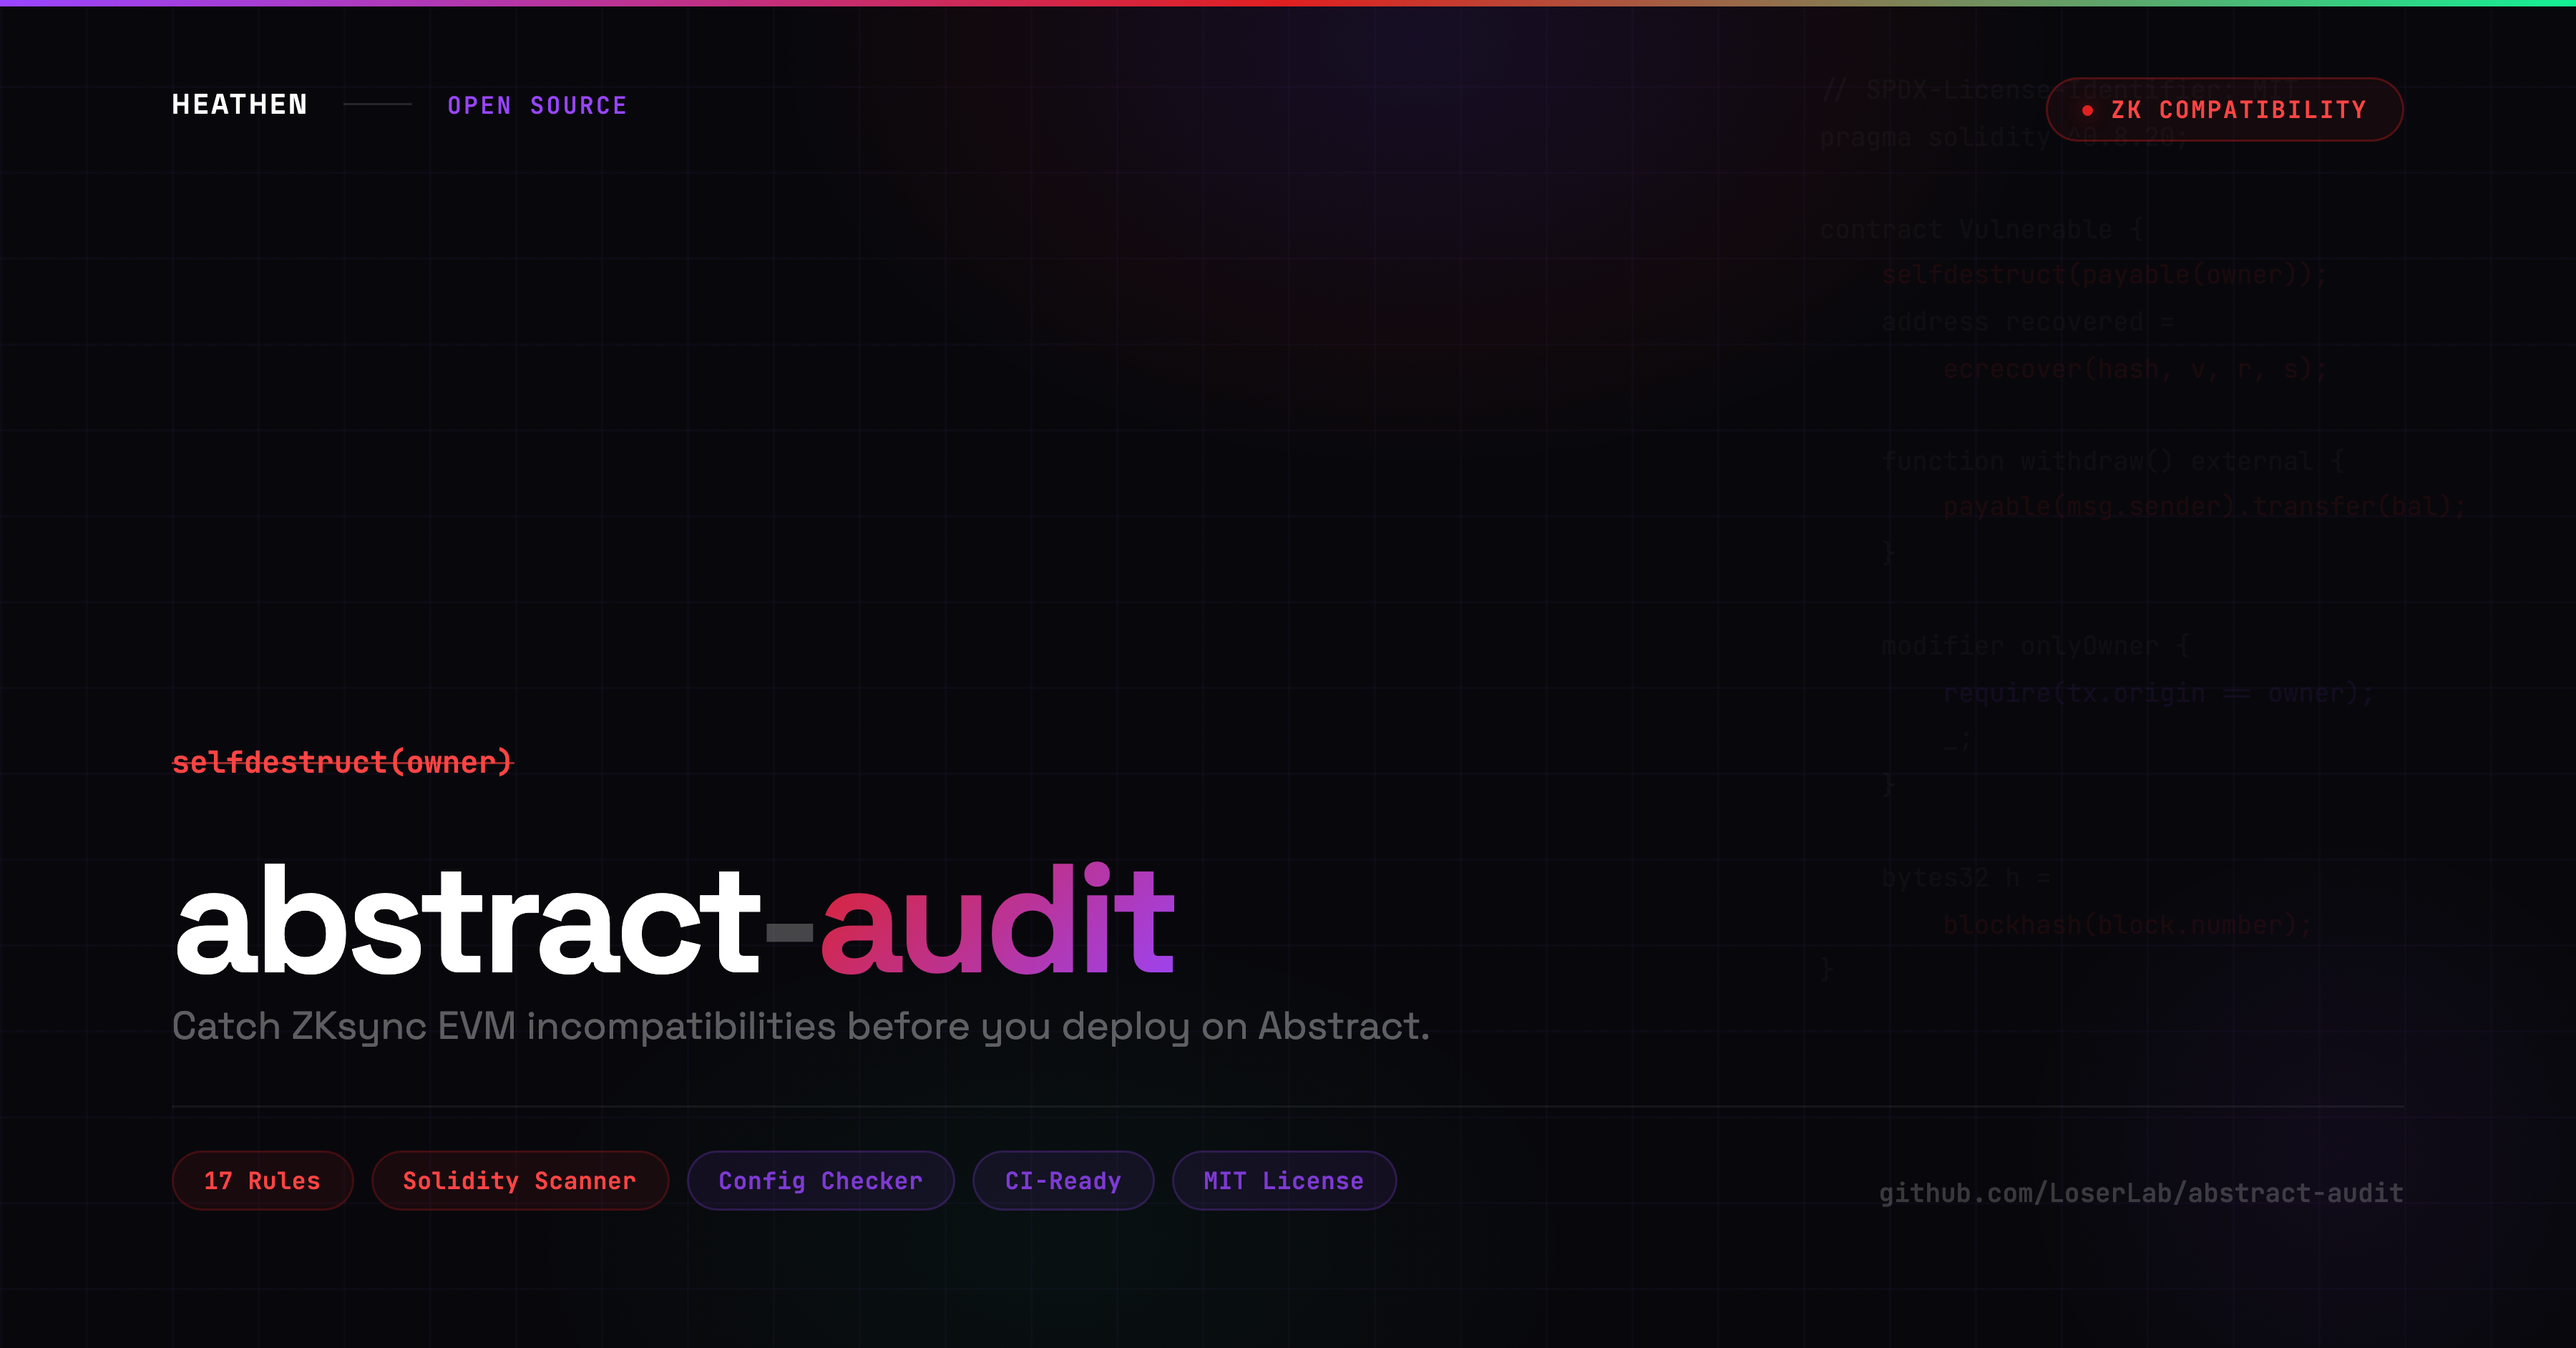
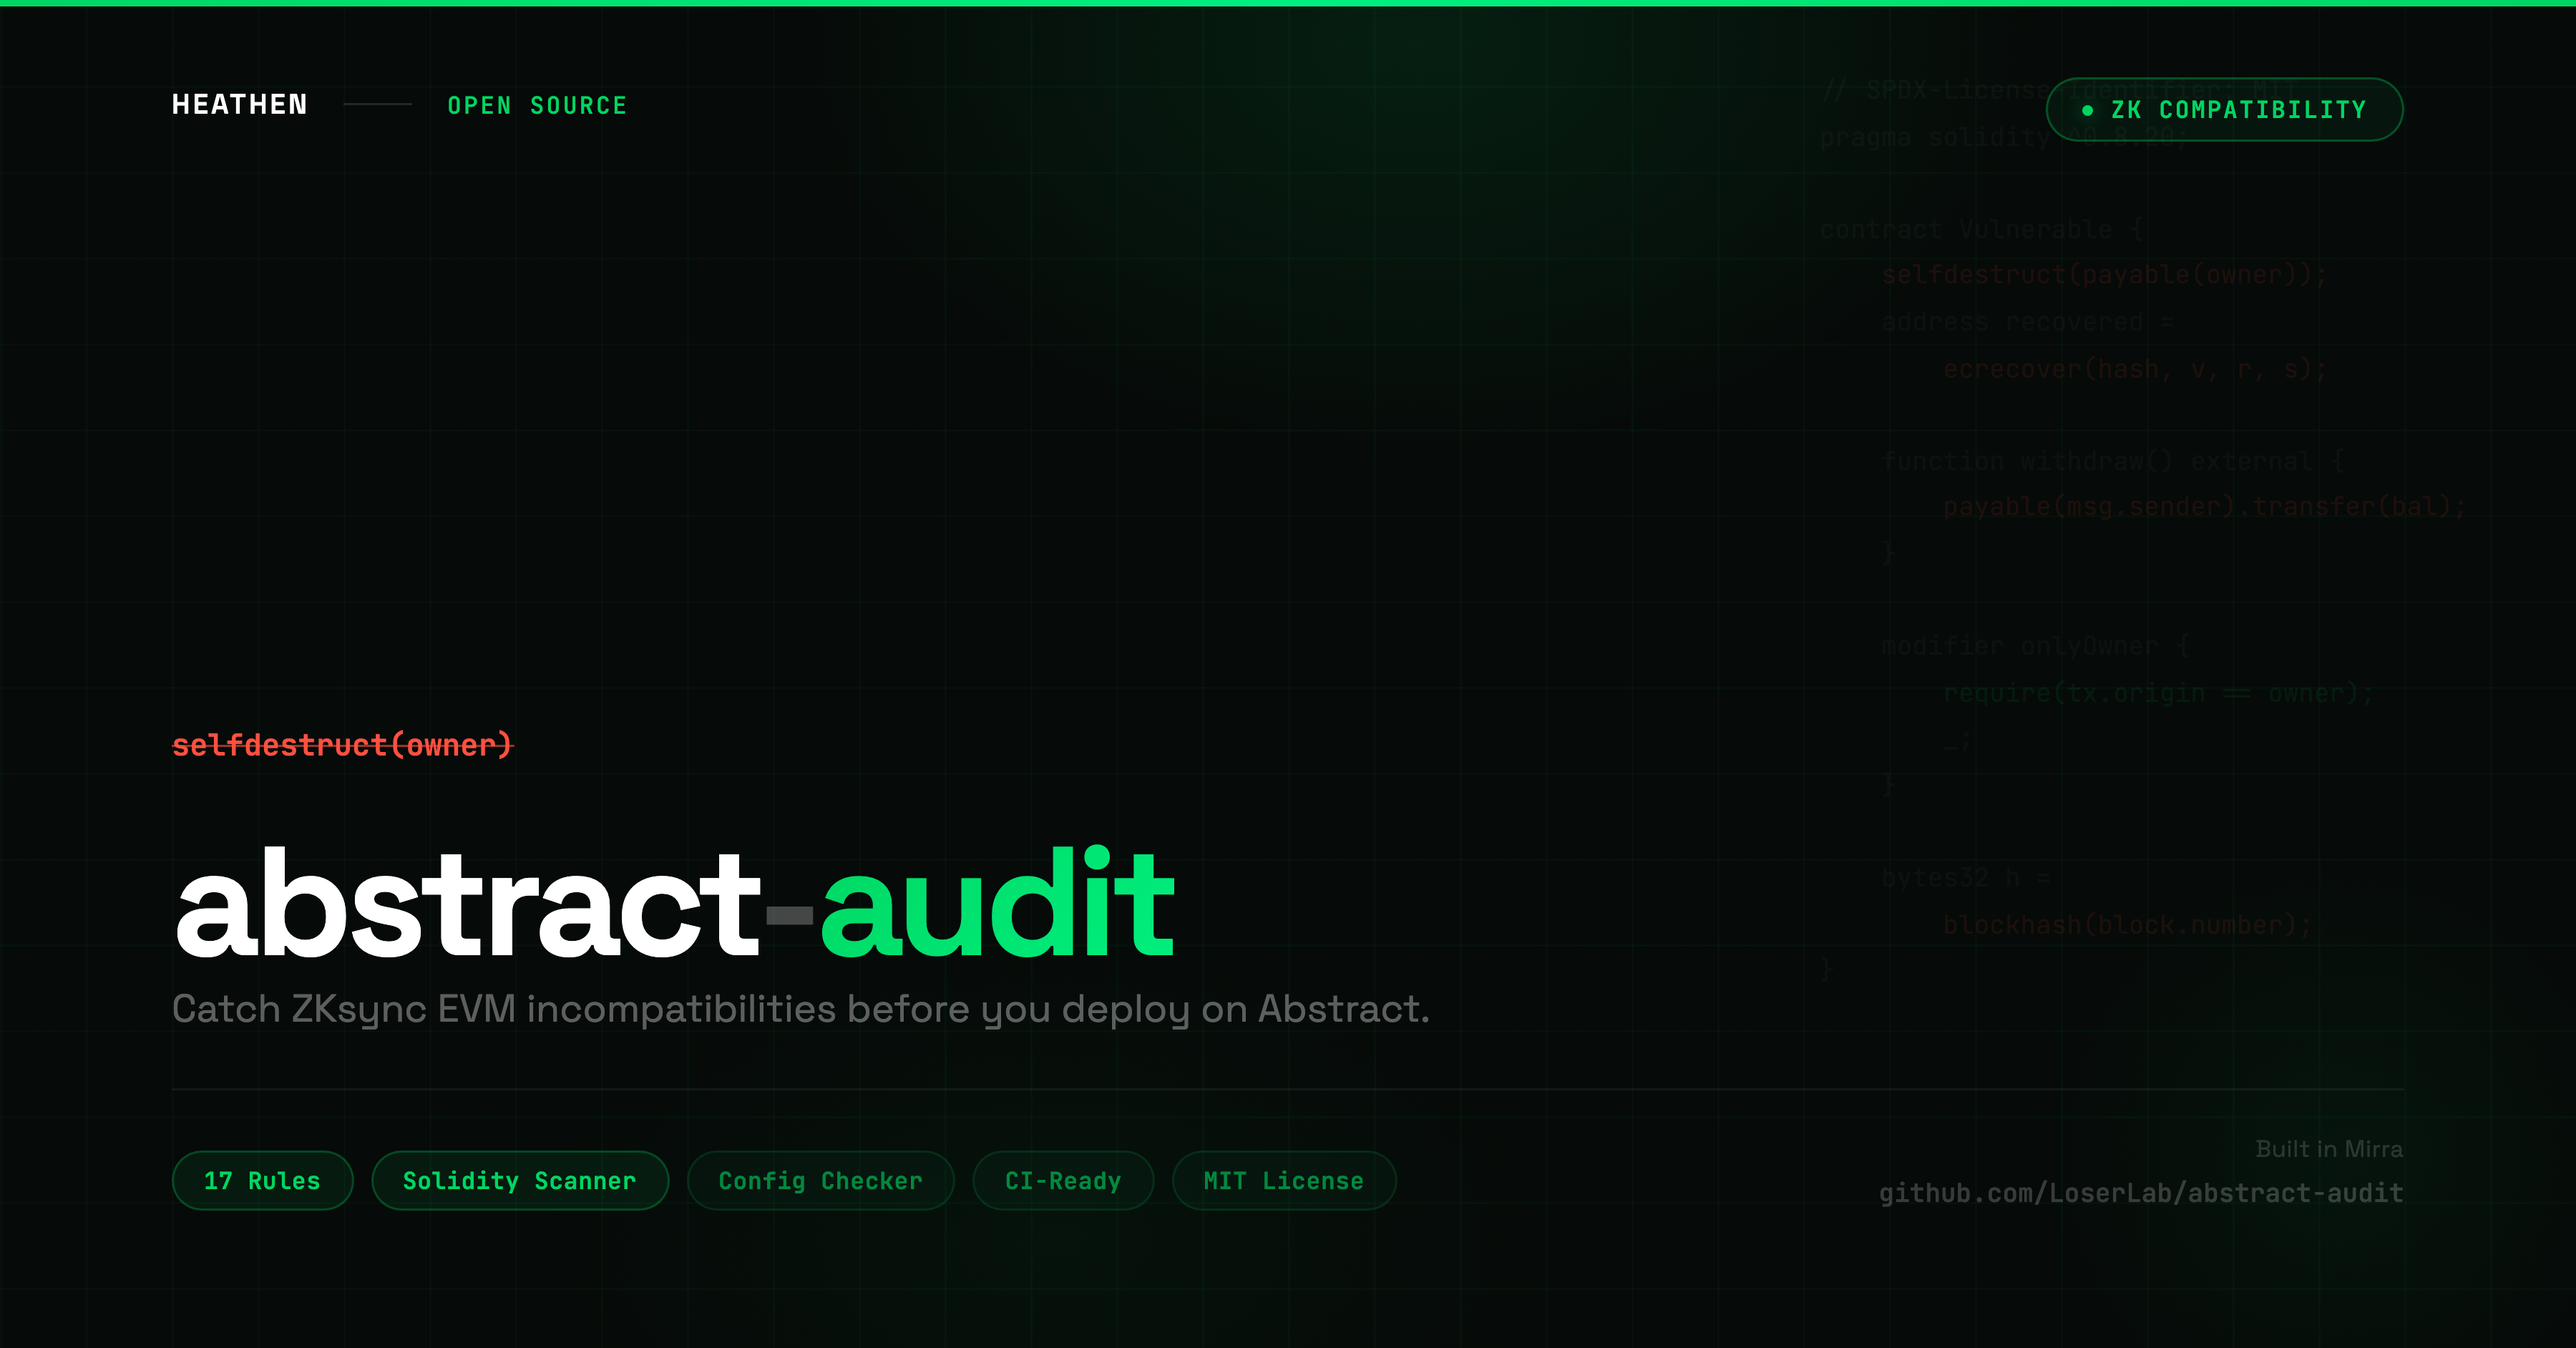
Update social card with Abstract brand green (#00D661) and Built in Mirra

diff --git a/social/card.html b/social/card.html
@@ -20,7 +20,7 @@
   .card {
     width: 1200px;
     height: 628px;
-    background: #08080C;
+    background: #060A08;
     position: relative;
     overflow: hidden;
     display: flex;
@@ -33,8 +33,8 @@
     position: absolute;
     inset: 0;
     background-image:
-      linear-gradient(rgba(153, 69, 255, 0.03) 1px, transparent 1px),
-      linear-gradient(90deg, rgba(153, 69, 255, 0.03) 1px, transparent 1px);
+      linear-gradient(rgba(0, 214, 97, 0.03) 1px, transparent 1px),
+      linear-gradient(90deg, rgba(0, 214, 97, 0.03) 1px, transparent 1px);
     background-size: 40px 40px;
     pointer-events: none;
     z-index: 1;
@@ -46,7 +46,7 @@
     left: 0;
     right: 0;
     height: 3px;
-    background: linear-gradient(90deg, #9945FF 0%, #E02020 50%, #14F195 100%);
+    background: linear-gradient(90deg, #00D661 0%, #00F080 50%, #00D661 100%);
     z-index: 10;
   }
 
@@ -56,7 +56,7 @@
     right: 20%;
     width: 600px;
     height: 400px;
-    background: radial-gradient(ellipse, rgba(153, 69, 255, 0.1) 0%, rgba(224, 32, 32, 0.04) 50%, transparent 70%);
+    background: radial-gradient(ellipse, rgba(0, 214, 97, 0.1) 0%, rgba(0, 214, 97, 0.03) 50%, transparent 70%);
     pointer-events: none;
     z-index: 2;
   }
@@ -67,7 +67,7 @@
     left: 20%;
     width: 500px;
     height: 300px;
-    background: radial-gradient(ellipse, rgba(20, 241, 149, 0.04) 0%, transparent 70%);
+    background: radial-gradient(ellipse, rgba(0, 214, 97, 0.04) 0%, transparent 70%);
     pointer-events: none;
     z-index: 2;
   }
@@ -78,7 +78,7 @@
     right: -40px;
     width: 300px;
     height: 300px;
-    background: radial-gradient(circle, rgba(153, 69, 255, 0.06) 0%, transparent 70%);
+    background: radial-gradient(circle, rgba(0, 214, 97, 0.05) 0%, transparent 70%);
     pointer-events: none;
     z-index: 2;
   }
@@ -99,8 +99,8 @@
     color: rgba(255, 255, 255, 0.04);
   }
 
-  .code-bg .c-red { color: rgba(224, 32, 32, 0.09); }
-  .code-bg .c-purple { color: rgba(153, 69, 255, 0.08); }
+  .code-bg .c-red { color: rgba(255, 80, 60, 0.09); }
+  .code-bg .c-green { color: rgba(0, 214, 97, 0.08); }
   .code-bg .c-dim { color: rgba(255, 255, 255, 0.03); }
 
   .brand {
@@ -132,7 +132,7 @@
     font-family: 'JetBrains Mono', monospace;
     font-size: 11px;
     font-weight: 500;
-    color: #9945FF;
+    color: #00D661;
     letter-spacing: 0.1em;
     text-transform: uppercase;
   }
@@ -146,24 +146,24 @@
     align-items: center;
     gap: 8px;
     padding: 7px 16px;
-    border: 1px solid rgba(224, 32, 32, 0.3);
+    border: 1px solid rgba(0, 214, 97, 0.3);
     border-radius: 100px;
-    background: rgba(224, 32, 32, 0.06);
+    background: rgba(0, 214, 97, 0.06);
   }
 
   .badge-dot {
     width: 5px;
     height: 5px;
-    background: #E02020;
+    background: #00D661;
     border-radius: 50%;
-    box-shadow: 0 0 8px rgba(224, 32, 32, 0.5);
+    box-shadow: 0 0 8px rgba(0, 214, 97, 0.5);
   }
 
   .badge-text {
     font-family: 'JetBrains Mono', monospace;
     font-size: 11px;
     font-weight: 600;
-    color: #FF4444;
+    color: #00D661;
     letter-spacing: 0.08em;
   }
 
@@ -186,9 +186,9 @@
     font-family: 'JetBrains Mono', monospace;
     font-size: 14px;
     font-weight: 600;
-    color: #FF4444;
+    color: #FF5040;
     text-decoration: line-through;
-    text-decoration-color: rgba(255, 68, 68, 0.6);
+    text-decoration-color: rgba(255, 80, 64, 0.6);
   }
 
   .title {
@@ -205,7 +205,7 @@
   }
 
   .title .accent {
-    background: linear-gradient(135deg, #E02020, #9945FF);
+    background: linear-gradient(135deg, #00D661, #00F080);
     -webkit-background-clip: text;
     -webkit-text-fill-color: transparent;
     background-clip: text;
@@ -241,16 +241,16 @@
     letter-spacing: 0.02em;
   }
 
-  .pill-red {
-    background: rgba(224, 32, 32, 0.08);
-    border: 1px solid rgba(224, 32, 32, 0.2);
-    color: #FF4444;
+  .pill-green {
+    background: rgba(0, 214, 97, 0.08);
+    border: 1px solid rgba(0, 214, 97, 0.25);
+    color: #00D661;
   }
 
-  .pill-purple {
-    background: rgba(153, 69, 255, 0.08);
-    border: 1px solid rgba(153, 69, 255, 0.2);
-    color: rgba(153, 69, 255, 0.8);
+  .pill-dim {
+    background: rgba(0, 214, 97, 0.04);
+    border: 1px solid rgba(0, 214, 97, 0.12);
+    color: rgba(0, 214, 97, 0.6);
   }
 
   .bottom-right {
@@ -258,6 +258,14 @@
     flex-direction: column;
     align-items: flex-end;
     gap: 6px;
+  }
+
+  .built-in {
+    font-family: 'Space Grotesk', sans-serif;
+    font-size: 11px;
+    font-weight: 400;
+    color: rgba(255, 255, 255, 0.15);
+    letter-spacing: 0.02em;
   }
 
   .repo-link {
@@ -289,7 +297,7 @@
     <span class="c-dim">}</span>
 
     <span class="c-dim">modifier onlyOwner {</span>
-        <span class="c-purple">require(tx.origin == owner);</span>
+        <span class="c-green">require(tx.origin == owner);</span>
         <span class="c-dim">_;</span>
     <span class="c-dim">}</span>
 
@@ -320,13 +328,14 @@
 
     <div class="bottom-row">
       <div class="pills">
-        <span class="pill pill-red">17 Rules</span>
-        <span class="pill pill-red">Solidity Scanner</span>
-        <span class="pill pill-purple">Config Checker</span>
-        <span class="pill pill-purple">CI-Ready</span>
-        <span class="pill pill-purple">MIT License</span>
+        <span class="pill pill-green">17 Rules</span>
+        <span class="pill pill-green">Solidity Scanner</span>
+        <span class="pill pill-dim">Config Checker</span>
+        <span class="pill pill-dim">CI-Ready</span>
+        <span class="pill pill-dim">MIT License</span>
       </div>
       <div class="bottom-right">
+        <span class="built-in">Built in Mirra</span>
         <span class="repo-link">github.com/LoserLab/abstract-audit</span>
       </div>
     </div>
